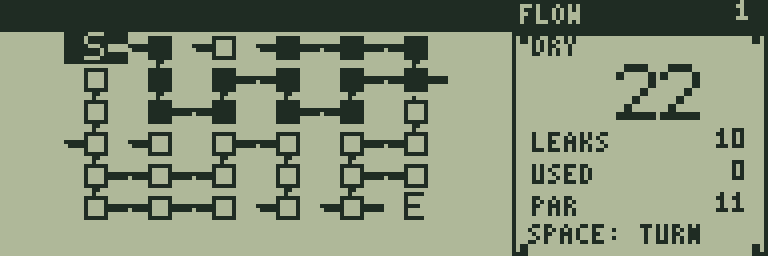
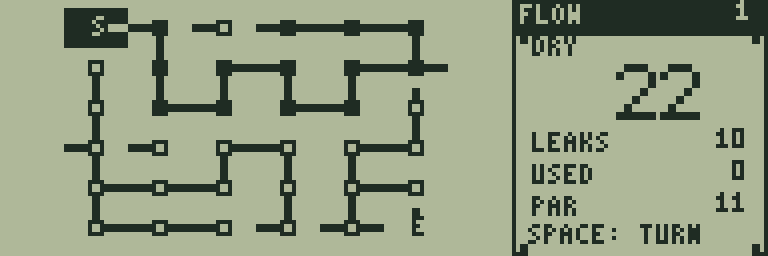
Improve PIPE WEAVE visual clarity

Changed region(s): [[0.0, 0.0, 0.6875, 0.5938], [0.0938, 0.625, 0.5625, 0.9375]]

diff --git a/games/pipe-weave/generate.py b/games/pipe-weave/generate.py
@@ -6,16 +6,27 @@ from grid_assets import assets,Bitmap,asm_bytes
 root=Path(__file__).parent;directions=[(0,-1,1,2),(0,1,2,1),(-1,0,4,8),(1,0,8,4)]
 rotate=lambda m:((m&1)<<3)|((m&8)>>2)|((m&2)<<1)|((m&4)>>2)
 from puzzle_assets import campaign, level_records, challenge_data
+from visual_art import tiny
 levels=campaign(root)
 ports=[1,2,4,8,5,6,9,10];sprites=[]
 for kind in range(4):
  for m in (range(16) if kind<2 else ports):
   b=Bitmap(16,8)
-  for bit,x,y in ((1,7,0),(2,7,7),(4,0,3),(8,15,3)):
-   if m&bit:b.line(7,3,x,y);b.line(8,4,min(x+1,15),min(y+1,7))
-  b.rect(5,1,6,6,0,True)
-  if kind<2:b.rect(5,1,6,6,1,kind==1)
-  else:b.text('S' if kind==2 else 'E',5,0)
+  for bit,x,y,w,h in ((1,7,0,2,4),(2,7,4,2,4),(4,0,3,8,2),(8,8,3,8,2)):
+   if m&bit:b.rect(x,y,w,h,1,True)
+  if kind<2:
+   b.rect(6,2,4,4,0,True)
+   b.rect(6,2,4,4,1,kind==1)
+  else:
+   # A compact letter leaves both vertical ports visible. The renderer repeats
+   # only the outer rows, giving every cell a ten-pixel vertical pitch.
+   b.rect(6,1,5,5,0,True)
+   tiny(b,'S' if kind==2 else 'E',7,1)
   sprites.append(b)
 data=asm_bytes('pipe_rotation',[rotate(m) for m in range(16)])+asm_bytes('pipe_ports',[ports.index(m) if m in ports else 255 for m in range(16)])+level_records([[a*16+b for a,b in zip(s['initial']['board'][::2],s['initial']['board'][1::2])] for s in levels])+challenge_data(root,levels,6,2,1,6)
+rows=[2+10*row for row in range(6)]
+data+=asm_bytes('pipe_row_bands',[y//8 for y in rows])
+data+=asm_bytes('pipe_row_shifts',[y%8 for y in rows])
+data+=asm_bytes('pipe_row_clear_low',[(~(1023<<(y%8)))&255 for y in rows])
+data+=asm_bytes('pipe_row_clear_high',[(~(1023<<(y%8))>>8)&255 for y in rows])
 assets(root,'PIPE WEAVE','pipe-weave',6,6,2,1,sprites,40,data,stat='DRY')

diff --git a/games/pipe-weave/README.md b/games/pipe-weave/README.md
@@ -10,7 +10,7 @@
 
 ## 遊び方
 
-方向キーで配管を選び、SPACEで時計回りに90度回します。SからEへ水が届くと通常クリアです。追加目標は、すべての配管へ水を通し、接続されていない口をなくすことです。HUDの DRY と LEAKS が両方0になる配置を目指してください。Eへ先に水を通すと、全体を完成させる前にクリアになります。
+方向キーで配管を選び、SPACEで時計回りに90度回します。S・Eの小さな文字の上下左右に、接続口が見えるように描いています。縦の管も長く取り、選択中や通水中もつながりを追えます。SからEへ水が届くと通常クリアです。追加目標は、すべての配管へ水を通し、接続されていない口をなくすことです。HUDの DRY と LEAKS が両方0になる配置を目指してください。Eへ先に水を通すと、全体を完成させる前にクリアになります。
 
 回転1回を1手と数えます。RETURNメニューから直前の回転を戻せます。規定手数は、全配管を完成させる確認済み手順を基準にしています。
 
